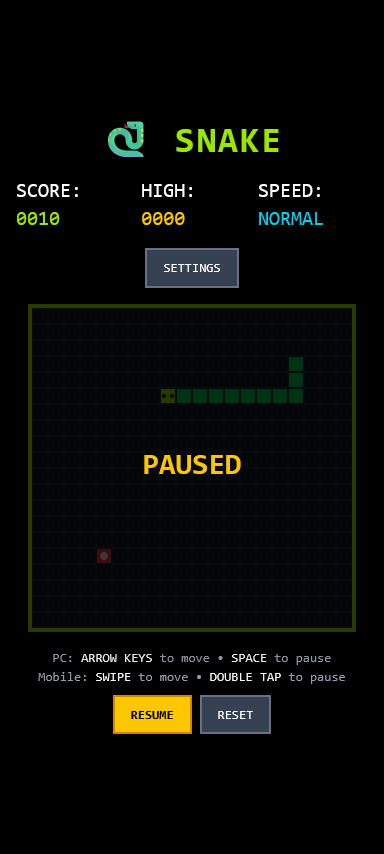
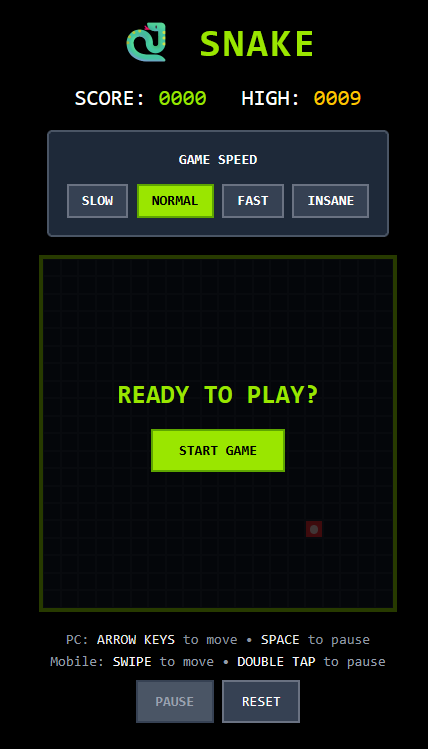
ui modification

diff --git a/src/SnakeGame.jsx b/src/SnakeGame.jsx
@@ -20,7 +20,6 @@ const SnakeGame = () => {
     const [score, setScore] = useState(0);
     const [highScore, setHighScore] = useState(0);
     const [gameSpeed, setGameSpeed] = useState('normal');
-    const [showSettings, setShowSettings] = useState(false);
     const [gameState, setGameState] = useState('waiting') // waiting, playing, paused, gameOver
 
     const arrowKeyProcessingRef = useRef(null);
@@ -201,46 +200,33 @@ const SnakeGame = () => {
                 </h1>
             </a>
 
-
             {/* Score Display */}
             <div className="flex gap-8 mb-4 text-xl">
                 <div className="text-white">SCORE: <span
                     className="text-lime-400">{score.toString().padStart(4, '0')}</span></div>
                 <div className="text-white">HIGH: <span
                     className="text-yellow-400">{highScore.toString().padStart(4, '0')}</span></div>
-                <div className="text-white">SPEED: <span
-                    className="text-cyan-400">{SPEED_SETTINGS[gameSpeed].name}</span></div>
             </div>
 
-            {/* Settings Button */}
-            <button
-                onClick={() => setShowSettings(!showSettings)}
-                className="mb-4 px-4 py-2 bg-gray-700 text-white border-2 border-gray-500 hover:bg-gray-600 transition-colors"
-            >
-                SETTINGS
-            </button>
-
             {/* Settings Panel */}
-            {showSettings && (
-                <div className="mb-4 p-4 bg-gray-800 border-2 border-gray-600 rounded">
-                    <div className="text-center text-white mb-3 font-bold">GAME SPEED</div>
-                    <div className="flex gap-2 justify-center">
-                        {Object.entries(SPEED_SETTINGS).map(([key, setting]) => (
-                            <button
-                                key={key}
-                                onClick={() => setGameSpeed(key)}
-                                className={`px-3 py-1 border-2 font-bold transition-colors ${
-                                    gameSpeed === key
-                                        ? 'bg-lime-400 text-black border-lime-600'
-                                        : 'bg-gray-700 text-white border-gray-500 hover:bg-gray-600'
-                                }`}
-                            >
-                                {setting.name}
-                            </button>
-                        ))}
-                    </div>
+            <div className="mb-4 p-4 bg-gray-800 border-2 border-gray-600 rounded">
+                <div className="text-center text-white mb-3 font-bold">GAME SPEED</div>
+                <div className="flex gap-2 justify-center">
+                    {Object.entries(SPEED_SETTINGS).map(([key, setting]) => (
+                        <button
+                            key={key}
+                            onClick={() => setGameSpeed(key)}
+                            className={`px-3 py-1 border-2 font-bold transition-colors ${
+                                gameSpeed === key ?
+                                    'bg-lime-400 text-black border-lime-600' :
+                                    'bg-gray-700 text-white border-gray-500 hover:bg-gray-600'
+                            }`}
+                        >
+                            {setting.name}
+                        </button>
+                    ))}
                 </div>
-            )}
+            </div>
 
             {/* Game Board */}
             <SwipeHandler
@@ -306,10 +292,12 @@ const SnakeGame = () => {
             {/* Controls */}
             <div className="text-center">
                 <div className="text-gray-400 mb">
-                    PC: <span className="text-white">ARROW KEYS</span> to move • <span className="text-white">SPACE</span> to pause
+                    PC: <span className="text-white">ARROW KEYS</span> to move • <span
+                    className="text-white">SPACE</span> to pause
                 </div>
                 <div className="text-gray-400 mb-2">
-                    Mobile: <span className="text-white">SWIPE</span> to move • <span className="text-white">DOUBLE TAP</span> to pause
+                    Mobile: <span className="text-white">SWIPE</span> to move • <span
+                    className="text-white">DOUBLE TAP</span> to pause
                 </div>
                 <div className="flex gap-2 justify-center">
                     <button
